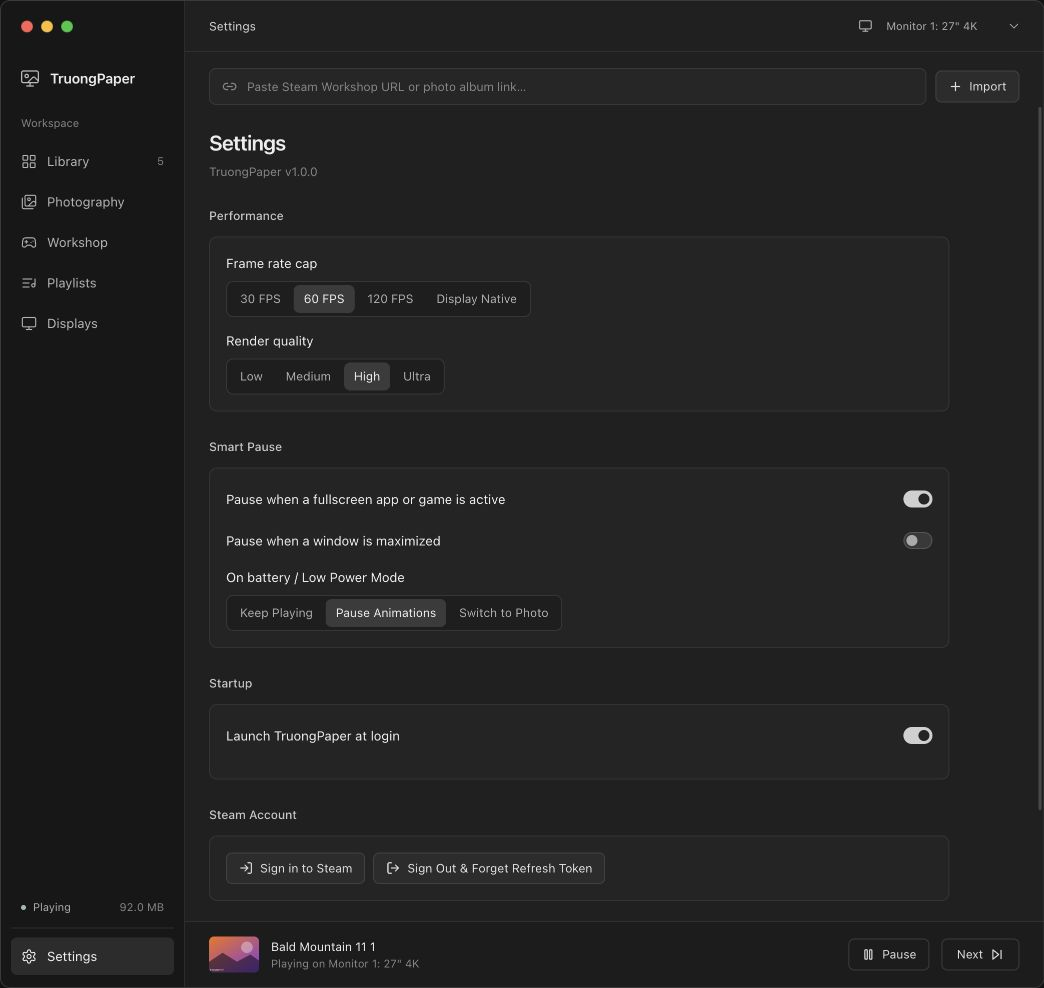
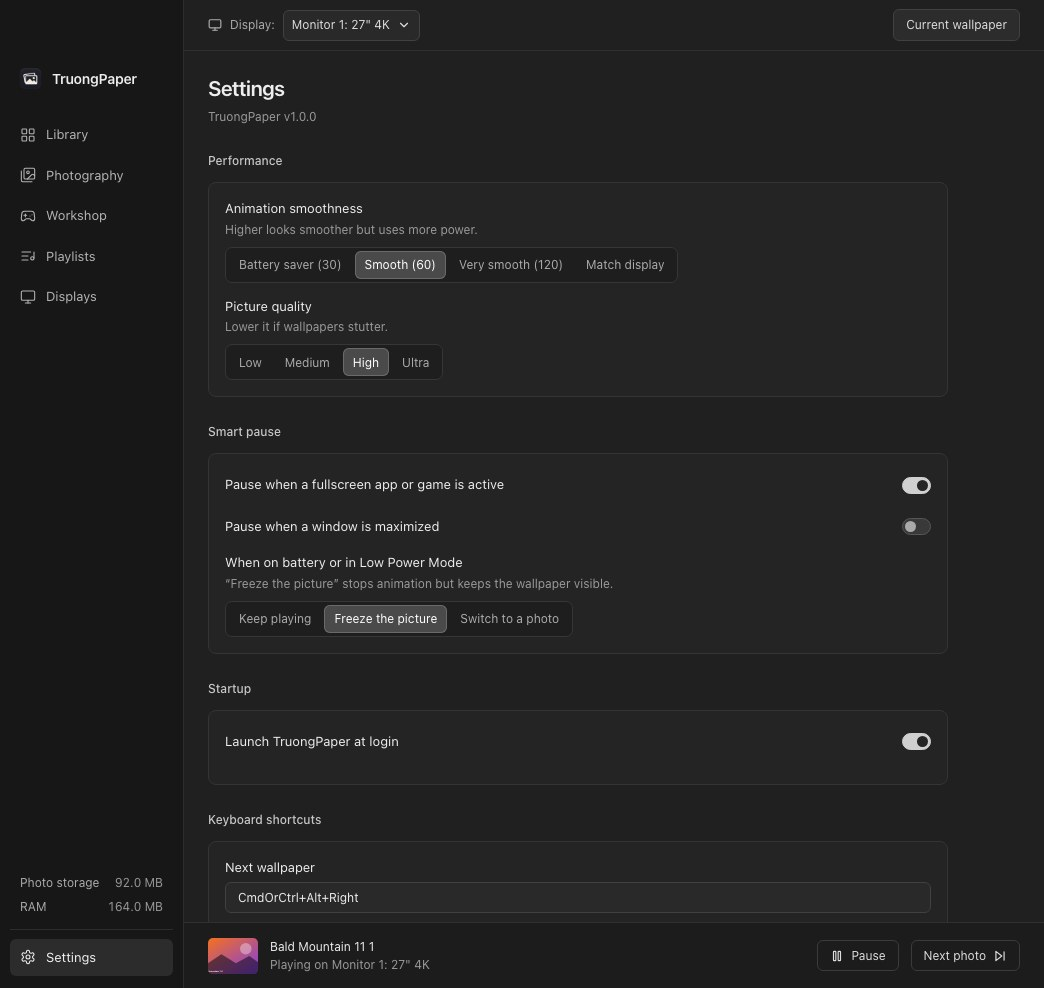
docs: refresh screenshots, add Playlists and Settings, point Install at Releases

diff --git a/README.md b/README.md
@@ -61,6 +61,16 @@ The Workshop gallery below is the native macOS app using the public Steam catalo
       <p align="center"><sub><b>Menu Bar & System Tray</b> · pause, next, favorite and display switching without opening the studio</sub></p>
     </td>
   </tr>
+  <tr>
+    <td width="50%" valign="top">
+      <img src="docs/screenshots/playlists.jpg" width="100%" alt="Playlists view with a mixed playlist of photos and wallpapers, plus save and load playlist file buttons">
+      <p align="center"><sub><b>Playlists</b> · mix photos and wallpapers, one playlist per display, save and load as a file</sub></p>
+    </td>
+    <td width="50%" valign="top">
+      <img src="docs/screenshots/settings.jpg" width="100%" alt="Settings view with animation smoothness, picture quality, smart pause, startup and keyboard shortcuts">
+      <p align="center"><sub><b>Settings</b> · smoothness, quality, smart pause, shortcuts and backup</sub></p>
+    </td>
+  </tr>
 </table>
 
 ## Features
@@ -114,7 +124,7 @@ The Workshop gallery below is the native macOS app using the public Steam catalo
 
 ## Install
 
-This project is in preview testing. Test installers are available from [GitHub Actions](https://github.com/iant4093/TruongPaper/actions/workflows/ci.yml); release download links become available after the first approved publication. See [the testing checklist](docs/MANUAL-TESTING.md) and [remaining limitations](docs/RELEASE-READINESS.md).
+Download the latest installers from [GitHub Releases](https://github.com/iant4093/TruongPaper/releases/latest). Installed apps update themselves from there. See [the testing checklist](docs/MANUAL-TESTING.md) and [remaining limitations](docs/RELEASE-READINESS.md).
 
 **macOS** (Apple Silicon, macOS 14.2 or later)
 
